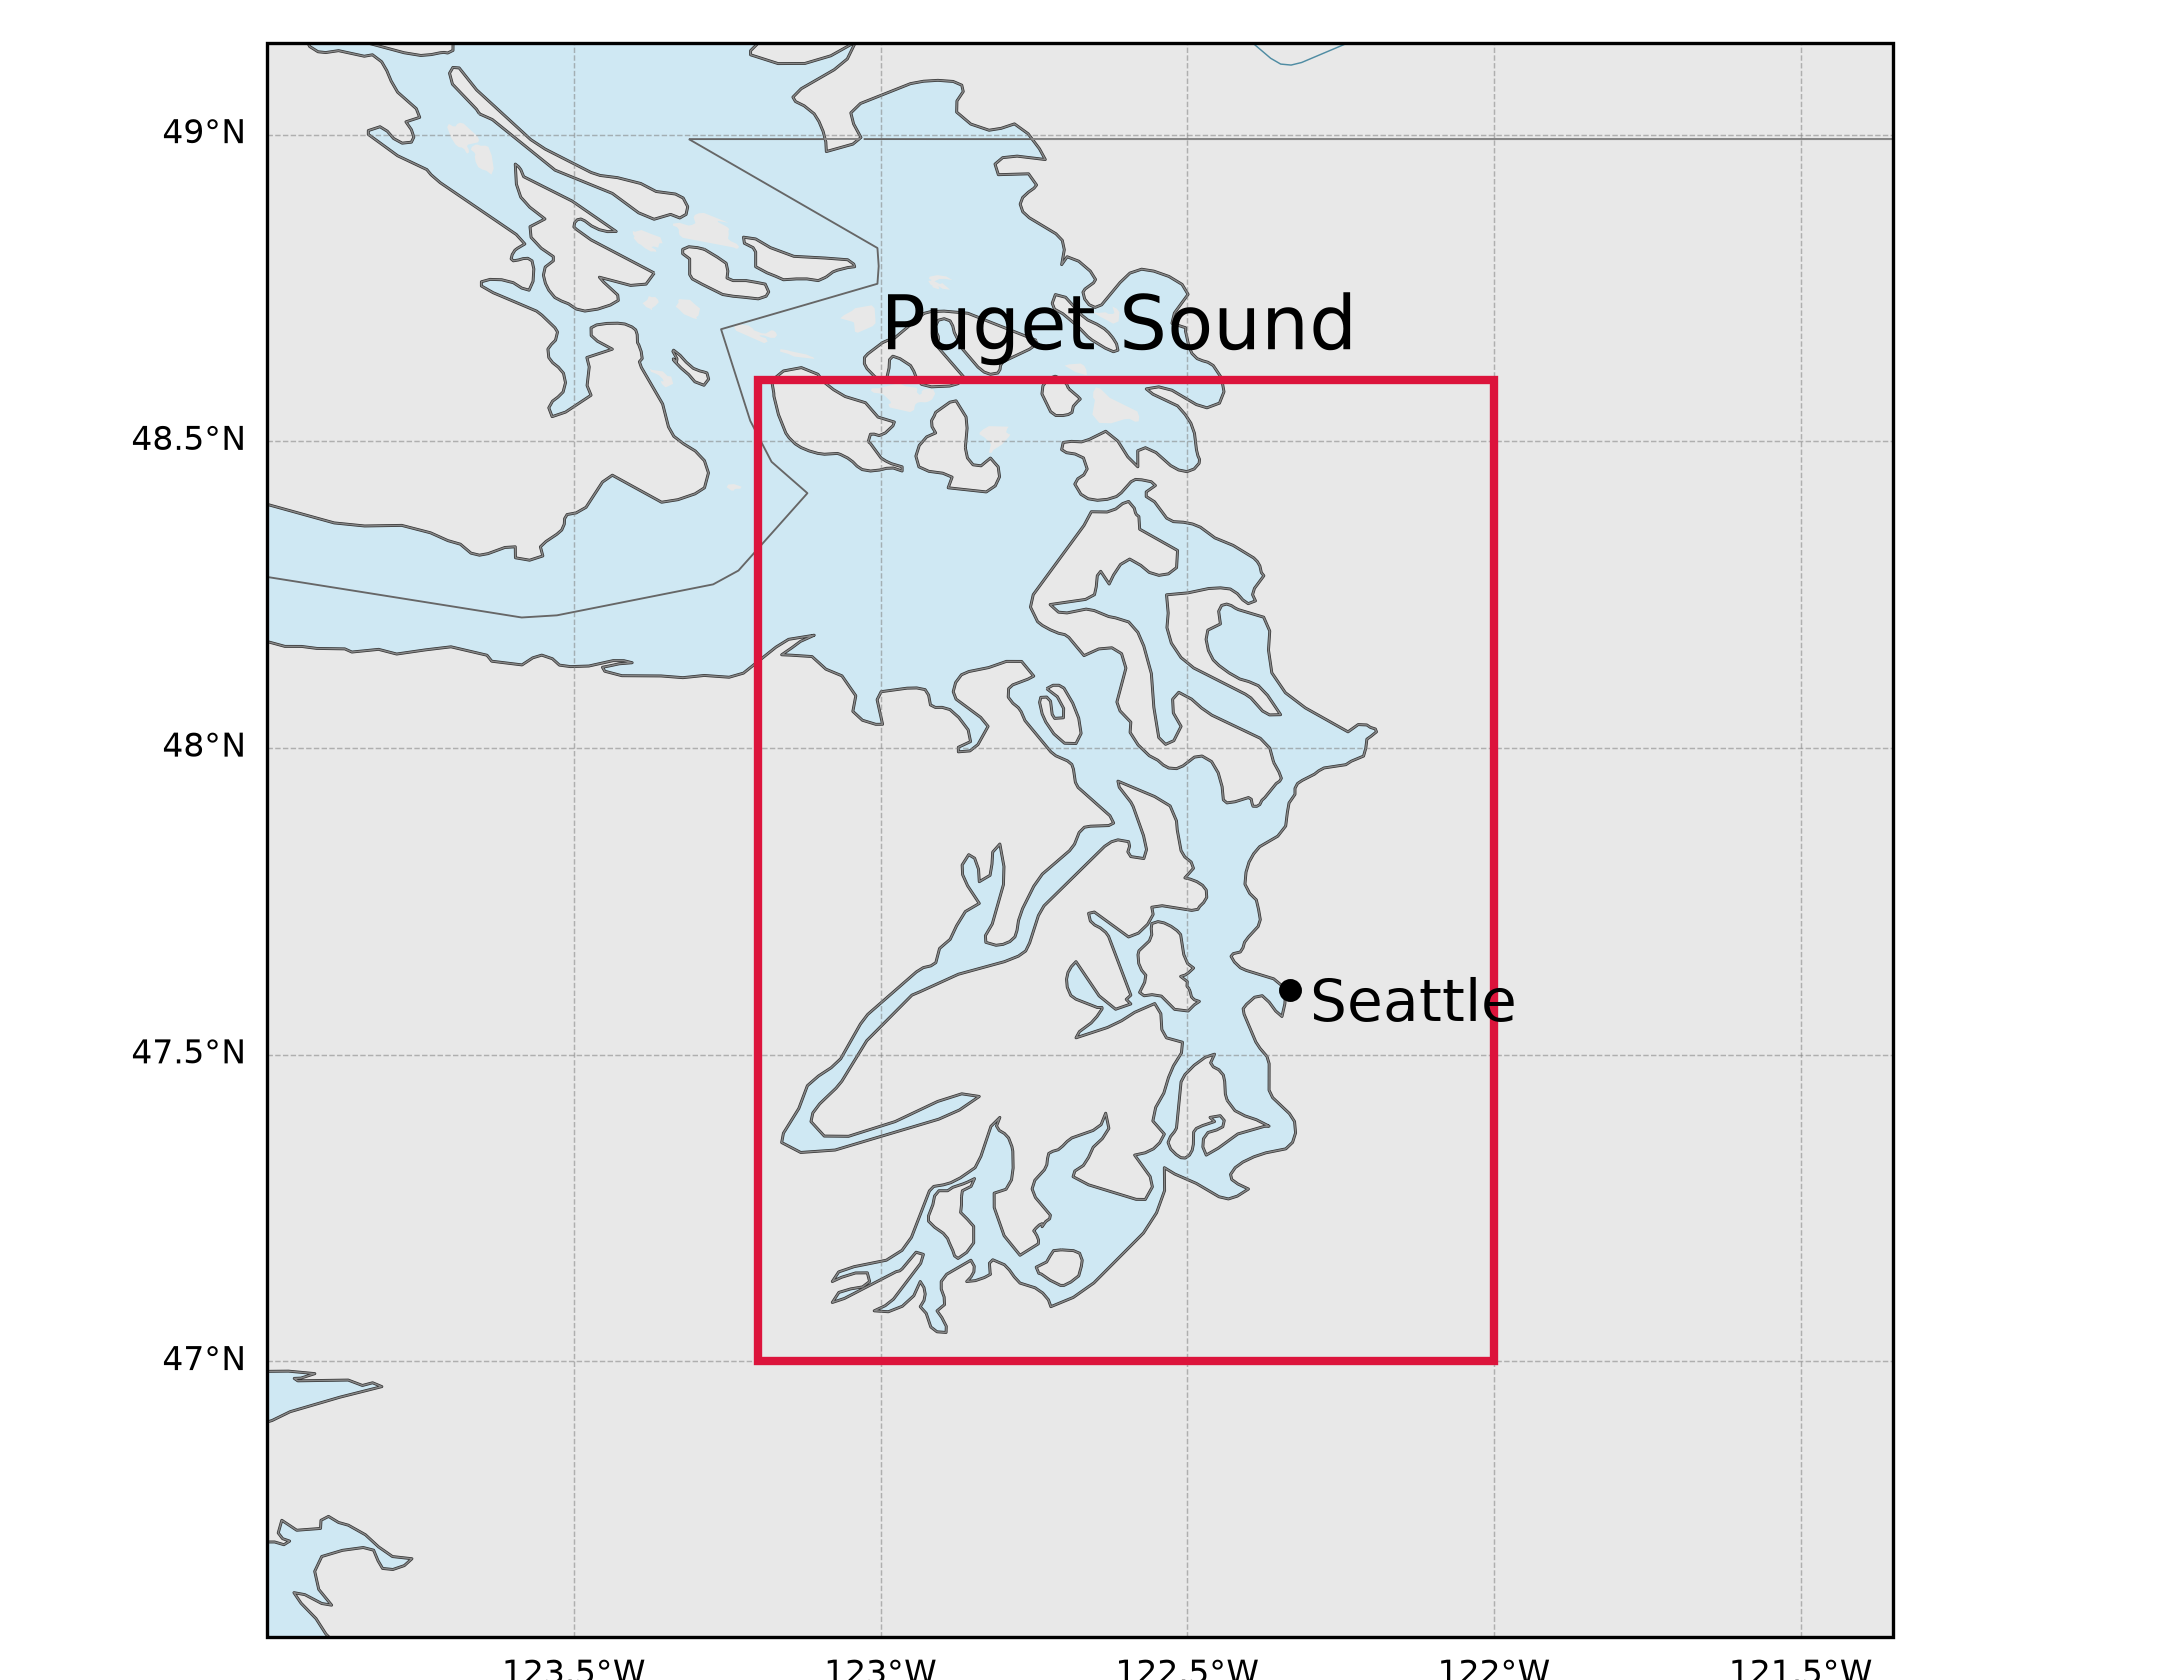
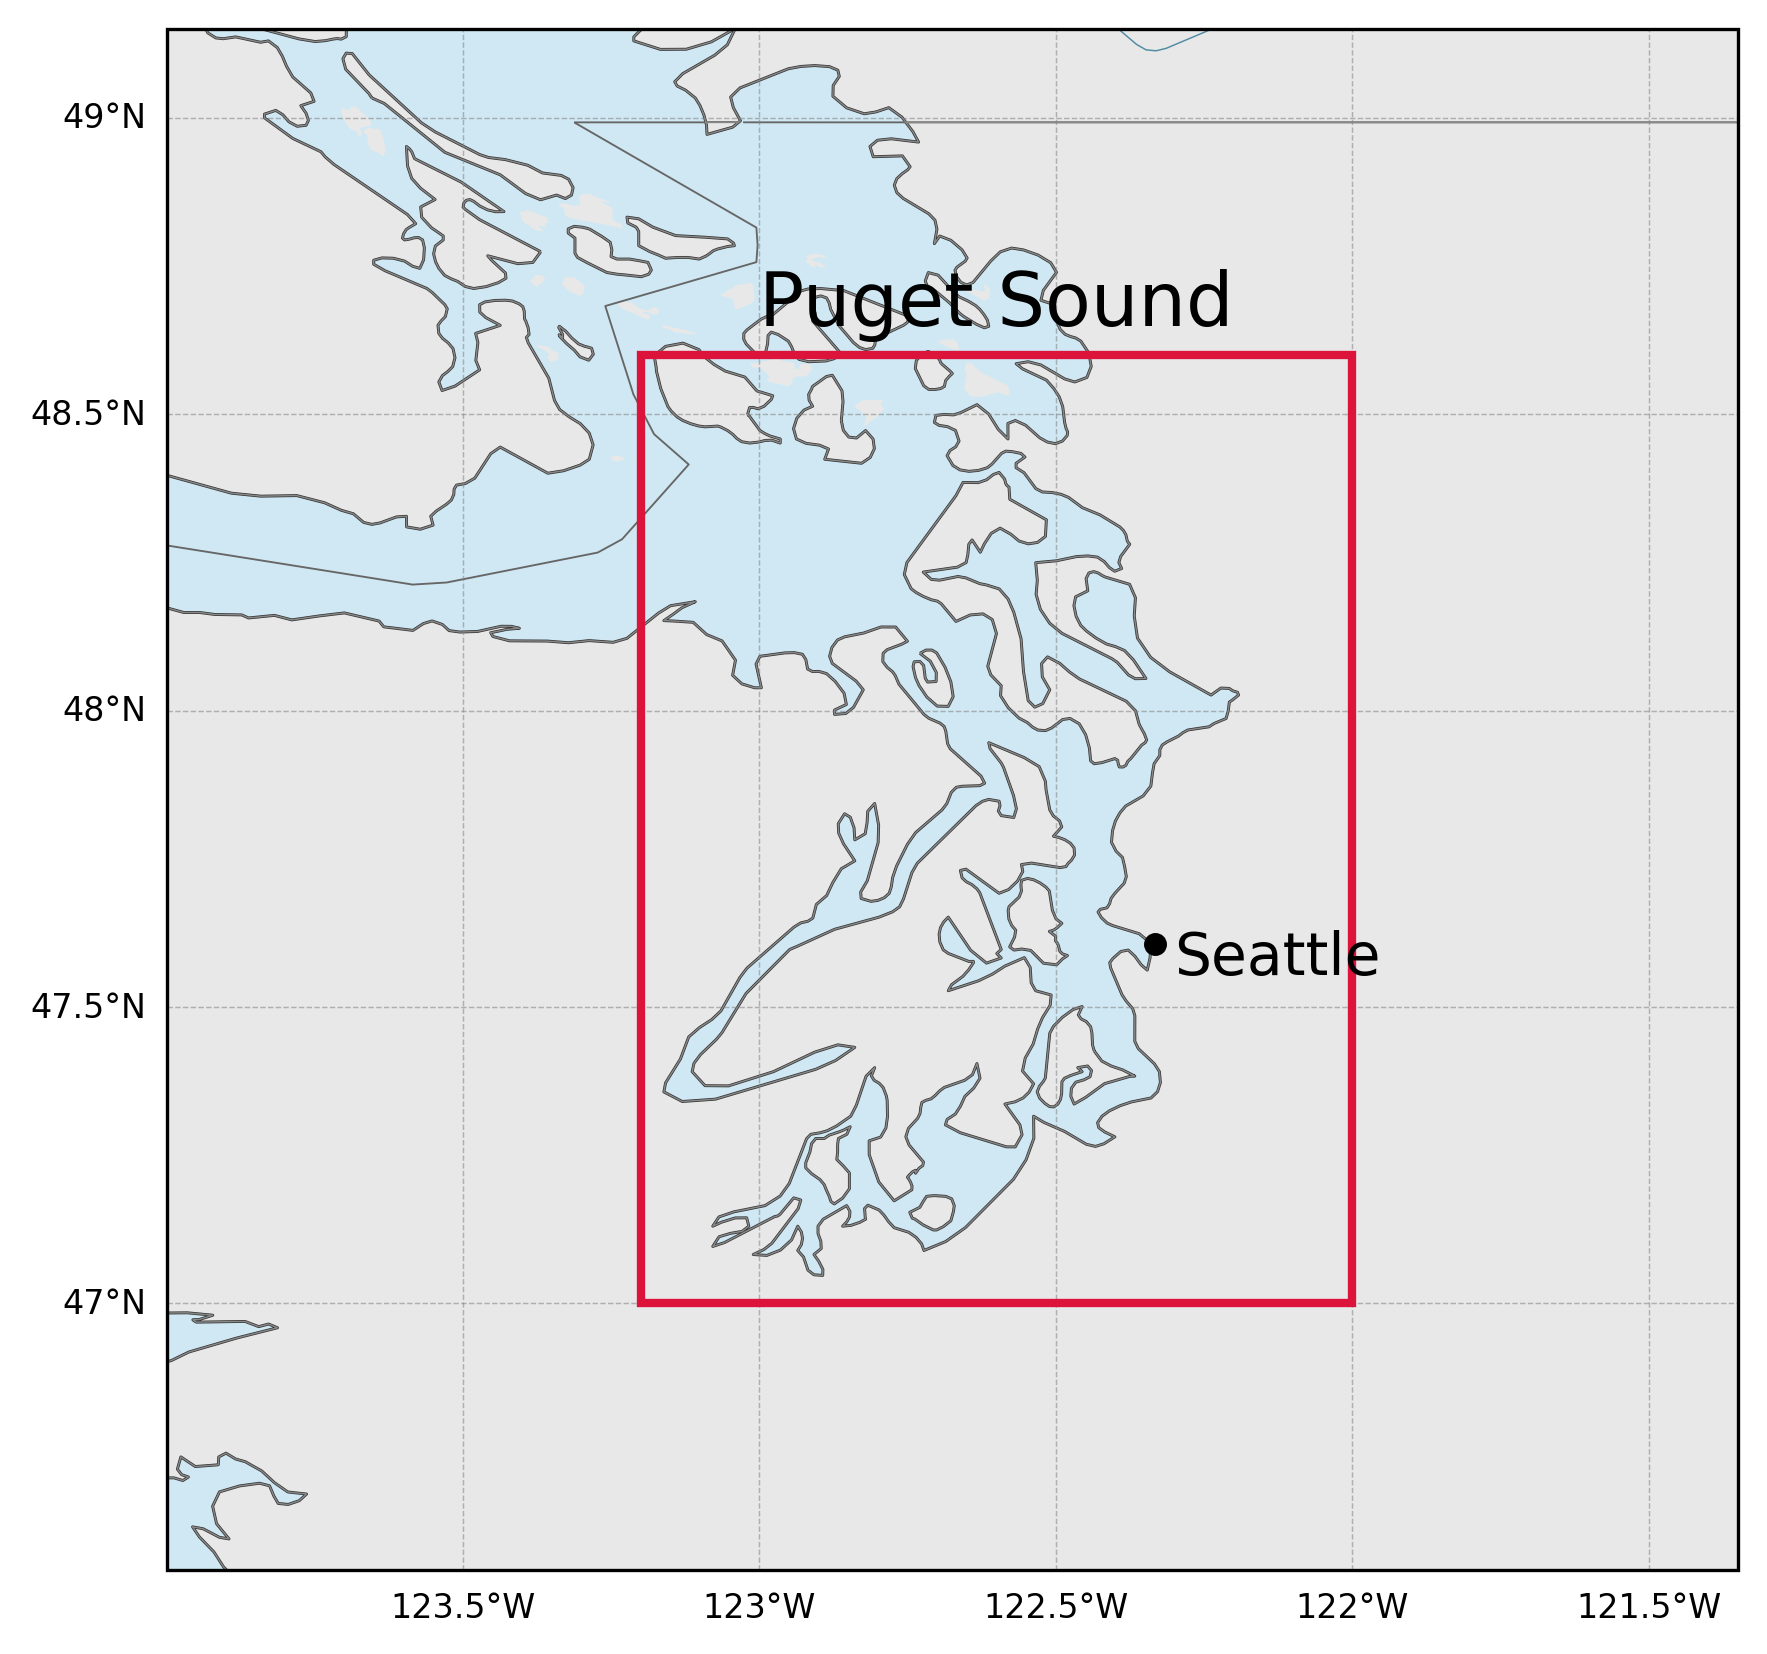
fixed map

diff --git a/Misc/map_puget sound.py b/Misc/map_puget sound.py
@@ -58,9 +58,14 @@ def add_gridlines(ax, labels=False, fontsize=8, major=False):
         gl.ylabel_style = {"size": fontsize}
 
 
-# 1. Global locator map
+# 1. Global locator map centered on the Pacific Ocean
 fig1 = plt.figure(figsize=(7, 5.4), constrained_layout=True)
-ax1 = fig1.add_subplot(1, 1, 1, projection=ccrs.Robinson())
+ax1 = fig1.add_subplot(
+    1,
+    1,
+    1,
+    projection=ccrs.Robinson(central_longitude=180),
+)
 ax1.set_global()
 add_base(ax1)
 add_gridlines(ax1, major=True)
@@ -75,7 +80,7 @@ ax1.text(
     transform=ccrs.PlateCarree(),
     zorder=6,
 )
-fig1.savefig("puget_sound_global.png", dpi=300, bbox_inches="tight")
+fig1.savefig("puget_sound_global_pacific.png", dpi=300, bbox_inches="tight")
 
 # 2. Regional context map
 fig2 = plt.figure(figsize=(7, 5.4), constrained_layout=True)
